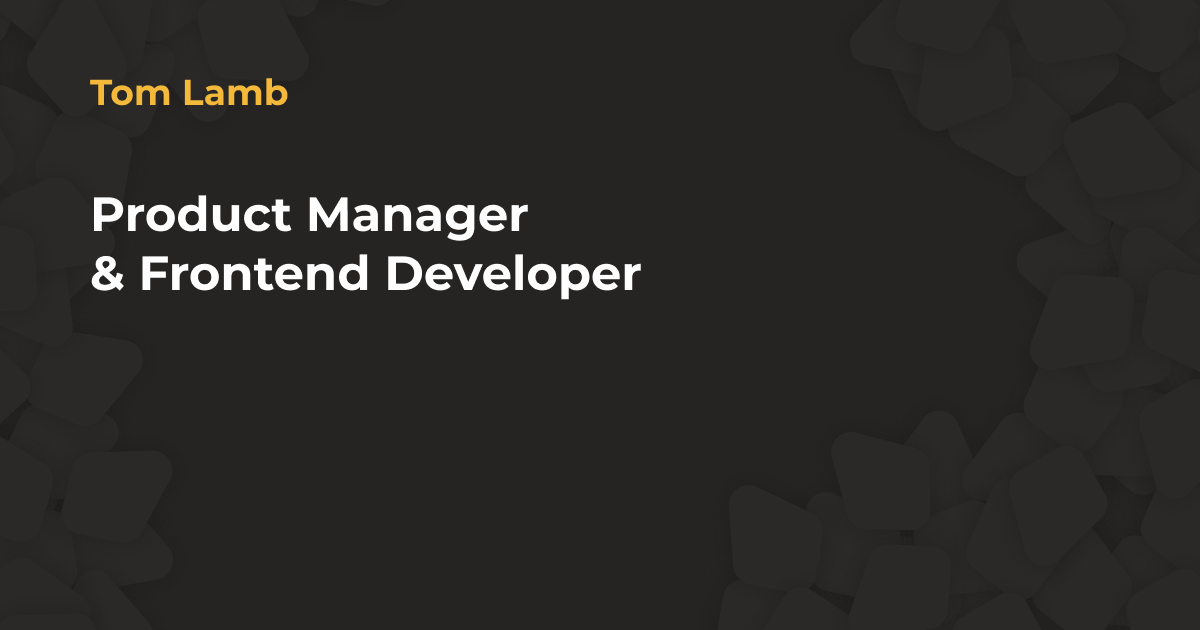
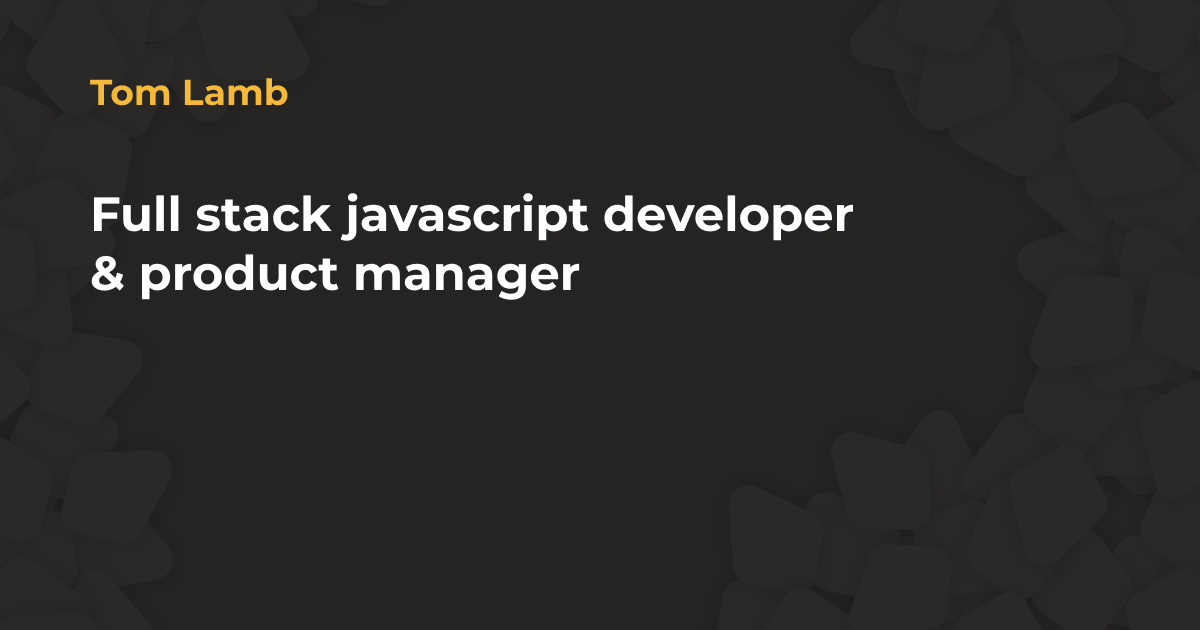
sitemap.xml

Changed region(s): [[0.0617, 0.3016, 0.7092, 0.4825]]

diff --git a/pages/index.tsx b/pages/index.tsx
@@ -18,8 +18,8 @@ const Home = () => {
   return (
     <>
       <Metadata
-        title="Product Manager and Frontend developer."
-        description="Product Manager and Frontend developer." />
+        title="Full stack javascript developer and product manager."
+        description="Full stack javascript developer and product manager." />
       <Header />
       <Jumbotron />
       <About />
